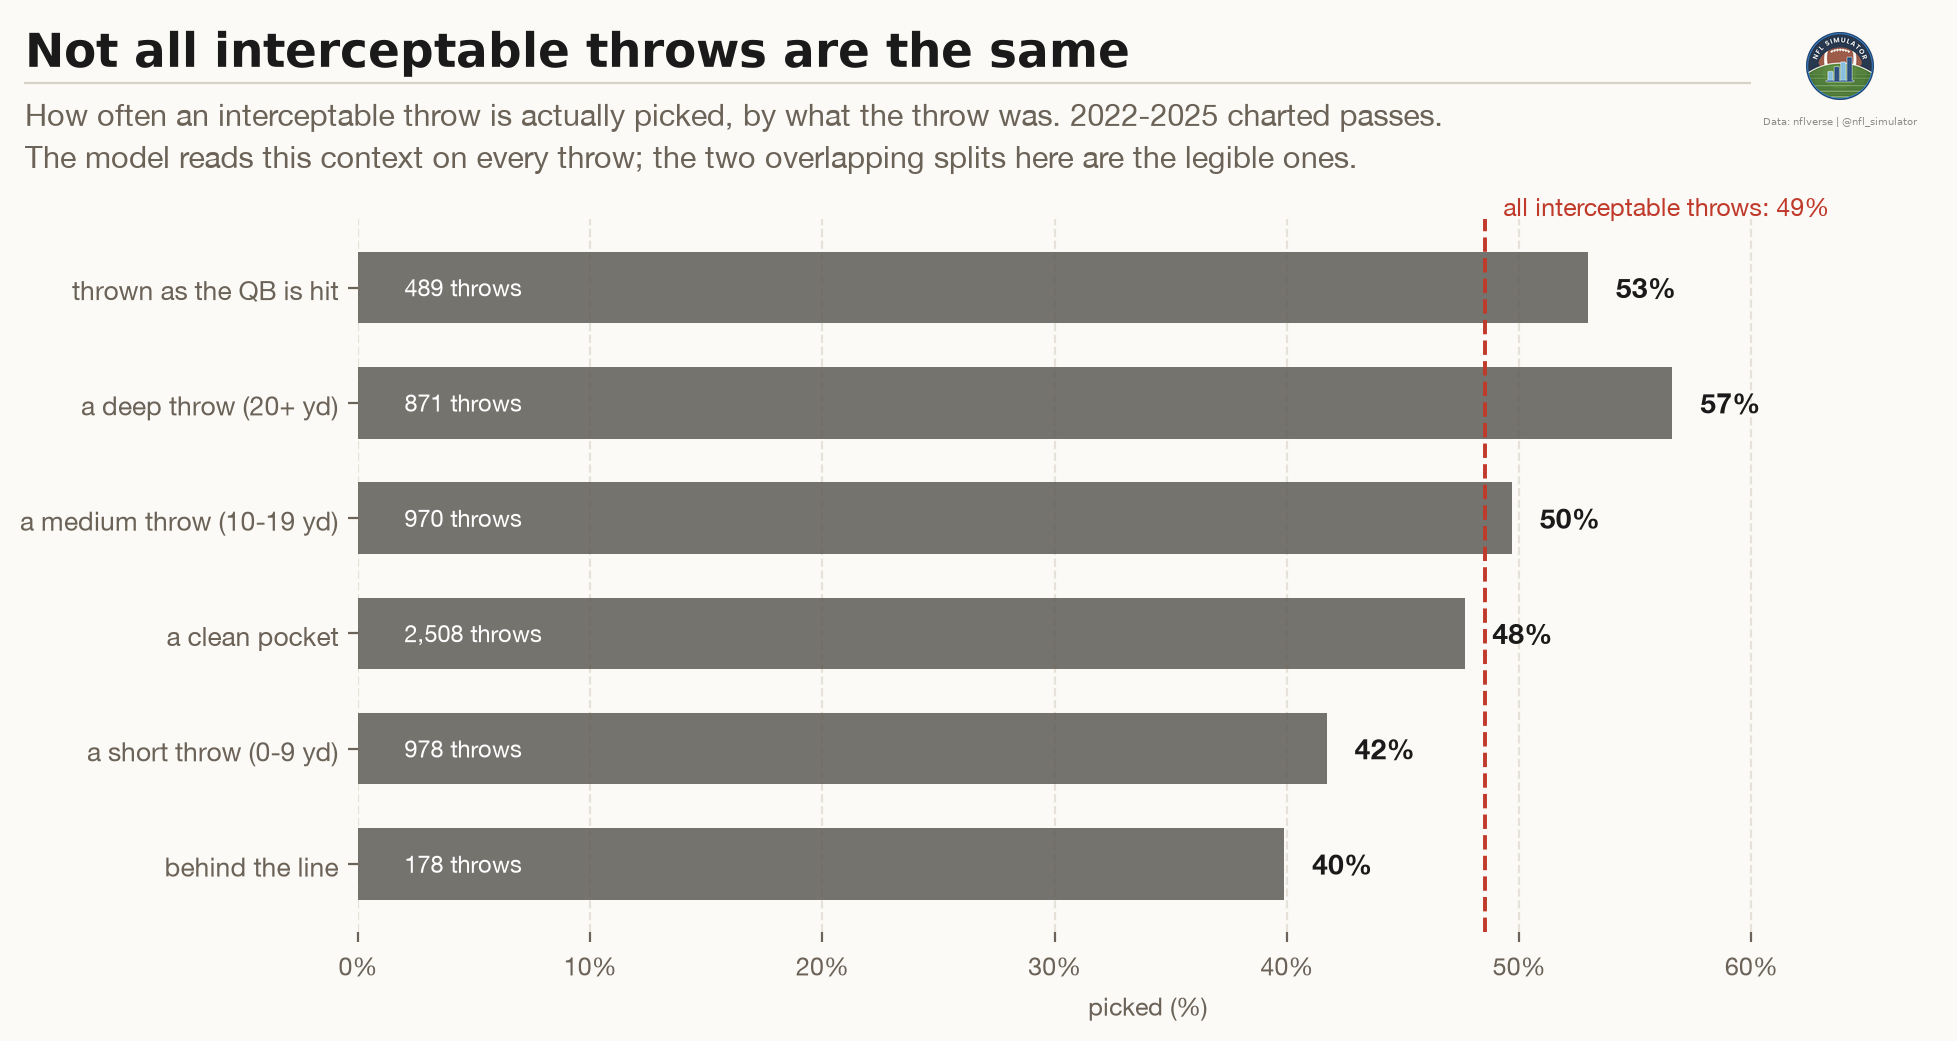
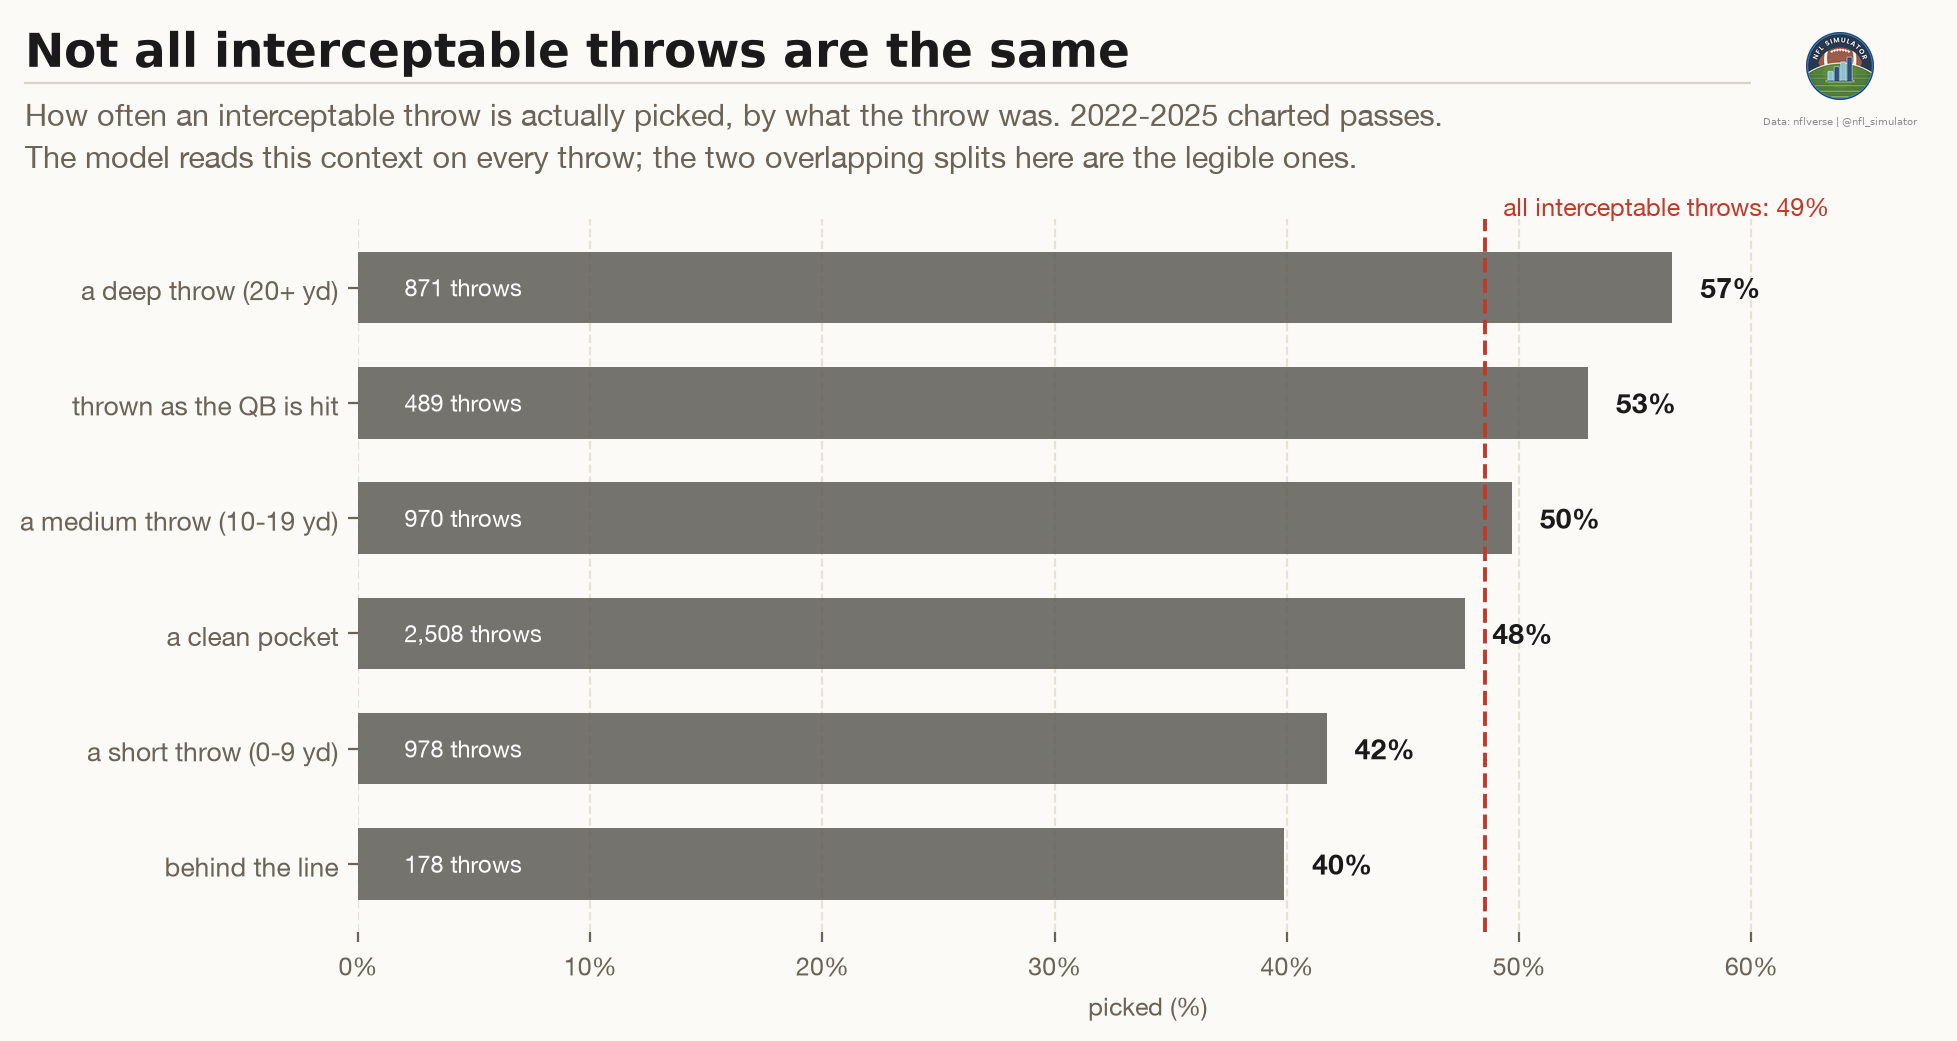
docs(writeup): figure 24 sorted descending

diff --git a/research/80_writeup_figures.py b/research/80_writeup_figures.py
@@ -1226,6 +1226,9 @@ def interceptable_context_bars() -> str:
         ("a short throw (0-9 yd)", *depth["a short throw (0-9 yd)"]),
         ("behind the line", *depth["behind the line"]),
     ]
+    # Descending by rate (the maintainer 2026-08-31): the eye reads the ladder, the
+    # labels say which rung is which.
+    rows.sort(key=lambda row: -row[2])
     check("worthy_behind_pct", round(depth["behind the line"][1], 1))
     check("worthy_short_pct", round(depth["a short throw (0-9 yd)"][1], 1))
     check("worthy_medium_pct", round(depth["a medium throw (10-19 yd)"][1], 1))
